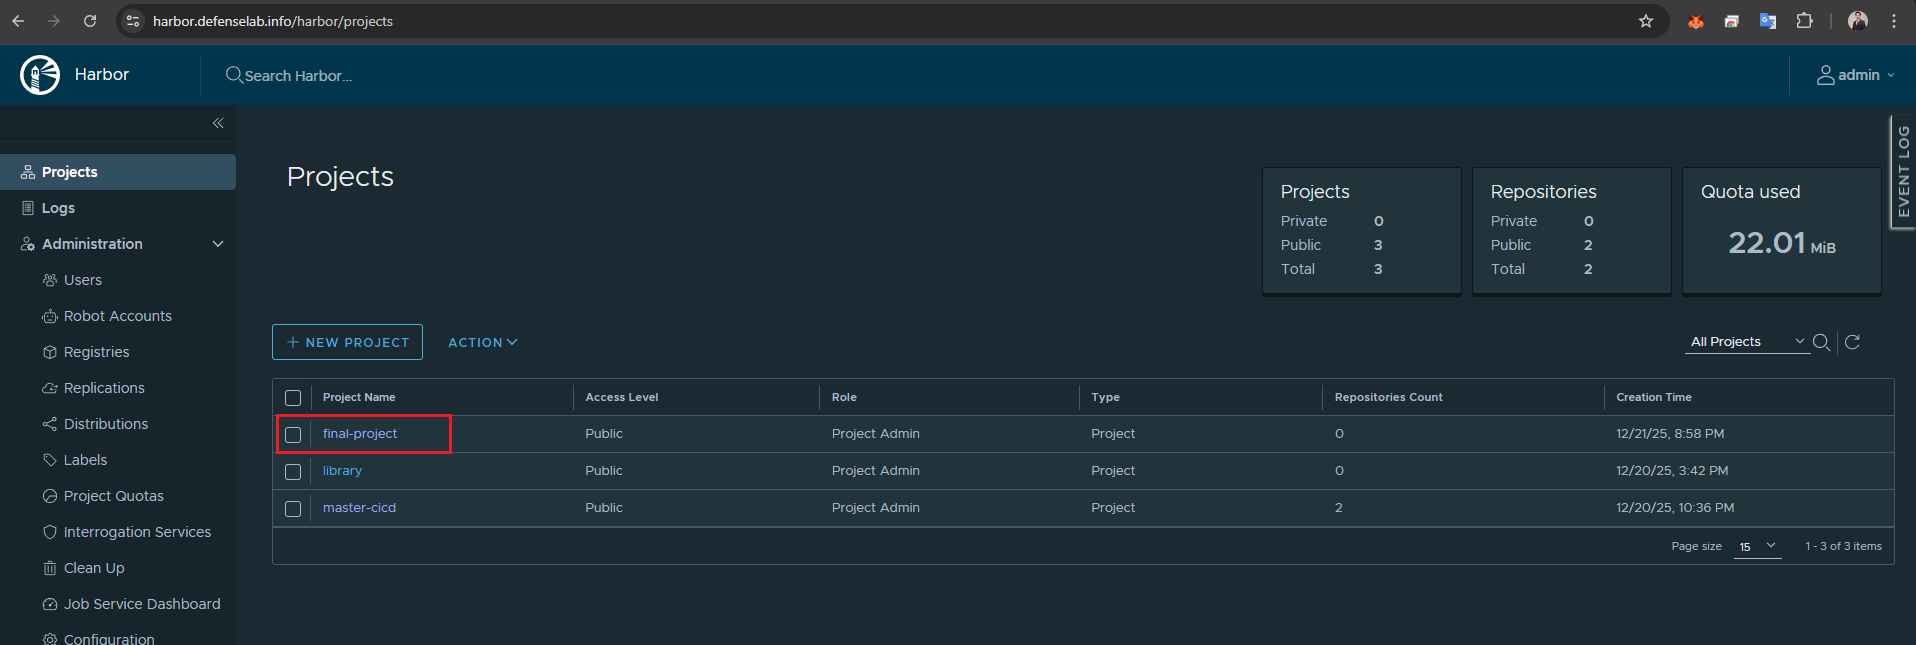
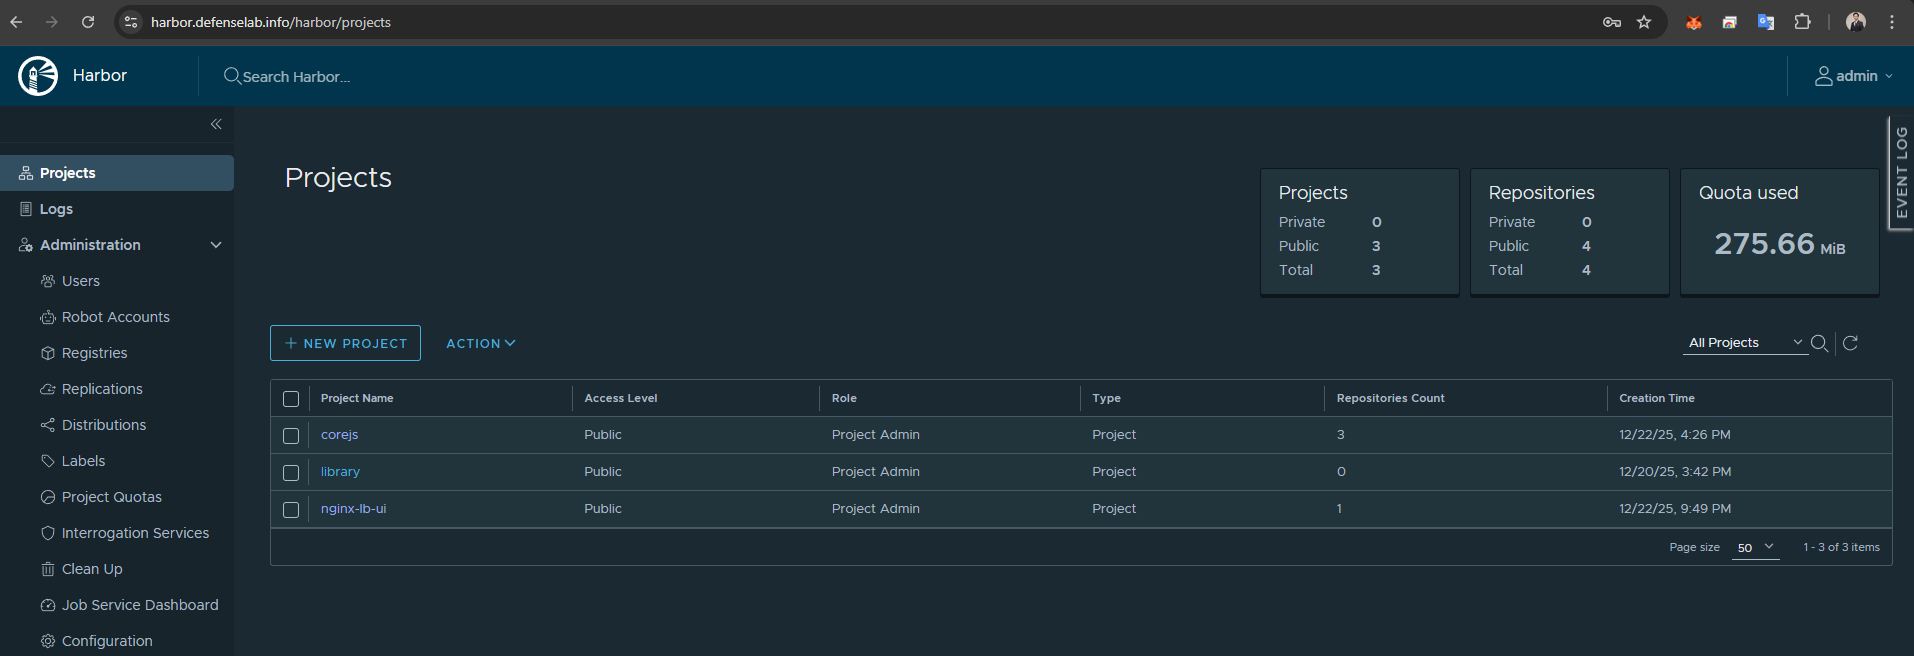
update final project guide

diff --git a/final-project/README.md b/final-project/README.md
@@ -252,13 +252,368 @@ Chạy lệnh `dc up -d --build --force-recreate`
 - Cài đặt Harbor xem tại [đây](https://github.com/tuongpx/master-cicd/tree/master/docker)
 - Cài đặt argoCD xem tại [đây](https://github.com/tuongpx/master-cicd/tree/master/argocd/hands-on-argocd-install)
 
-## Cấu hình Harbor Repository
+## Chuẩn bị môi trường
 
-Tạo project trên Harbor
+### 1. Tạo Harbor Project
+Tại giao diện của Harbor
+- Click chọn `NEW PROJECT`
+- Điền thông tin của project
+
+![Alt text](./images/harbor-project-create-1.png)
+
+Trong bài lab này, tôi tạo `corejs` project
 
 ![Alt text](./images/harbor-project-create.png)
 
-## Chuẩn bị Gitlab Repository
+### 2. Chuẩn bị gitlab repository
+https://gitlab.defenselab.info/master-cicd/corejs.git
+
+### 3. Chuẩn bị github repository
+Github chỉ dùng để lưu trữ helmchart của dự án.
+https://github.com/tuongpx/corejs-prod.git
+
+## Thiết lập Jenkins Pipeline
+
+- Chuẩn bị Jenkinsfile thực hiện tự động hóa toàn bộ quy trình CI/CD từ build, push images đến update manifest cho produt lên Github.
+
+```bash
+pipeline {
+  agent any
+
+  environment {
+    APP_NAME   = "corejs"
+    DOCKER_TAG = "0.1.${env.BUILD_NUMBER}"
+
+    GIT_REPO = "https://gitlab.defenselab.info/master-cicd/corejs.git"
+    GIT_CRED = "gitlab-token"
+
+    GITOPS_REPO = "https://gitlab.defenselab.info/master-cicd/app-manifest.git"
+
+    HARBOR_DOMAIN  = "harbor.defenselab.info"
+    HARBOR_PROJECT = "corejs"
+    HARBOR_CRED    = "jenkins-harbor"
+
+    FRONTEND_IMAGE = "harbor.defenselab.info/corejs/corejs-frontend"
+    BACKEND_IMAGE  = "harbor.defenselab.info/corejs/corejs-backend"
+    HARBOR_IMAGE   = "harbor.defenselab.info/corejs/corejs-backend"
+
+    HELM_CHART_DIR = "helmchart"
+
+    AWS_REGION  = "ap-southeast-1"
+    ECR_ACCOUNT = "130618649638"
+    ECR_REPO    = "tuongpx-backend"
+    ECR_IMAGE   = "${ECR_ACCOUNT}.dkr.ecr.${AWS_REGION}.amazonaws.com/${ECR_REPO}"
+    AWS_CRED    = "jenkins-aws"
+
+    GITHUB_PROD_REPO = "https://github.com/tuongpx/corejs-prod.git"
+    GITHUB_CRED     = "github-token"
+  }
+
+  stages {
+
+    stage('Checkout Source') {
+      steps {
+        git branch: 'master',
+            credentialsId: GIT_CRED,
+            url: GIT_REPO
+      }
+    }
+
+    stage('Pre-flight Check') {
+      steps {
+        sh '''
+          docker --version
+          helm version
+          yq --version
+        '''
+      }
+    }
+
+    stage('Build & Push Docker Images') {
+      parallel {
+        stage('Frontend Image') {
+          steps {
+            script {
+              docker.withRegistry("https://${HARBOR_DOMAIN}", HARBOR_CRED) {
+                sh """
+                  docker build -t ${FRONTEND_IMAGE}:${DOCKER_TAG} frontend
+                  docker push ${FRONTEND_IMAGE}:${DOCKER_TAG}
+                """
+              }
+            }
+          }
+        }
+
+        stage('Backend Image') {
+          steps {
+            script {
+              docker.withRegistry("https://${HARBOR_DOMAIN}", HARBOR_CRED) {
+                sh """
+                  docker build -t ${BACKEND_IMAGE}:${DOCKER_TAG} -f CoreAPI/Dockerfile .
+                  docker push ${BACKEND_IMAGE}:${DOCKER_TAG}
+                """
+              }
+            }
+          }
+        }
+      }
+    }
+
+    stage('Update Helm values.yaml') {
+      steps {
+        sh """
+          yq -i '
+            .frontend.image.repository = "${FRONTEND_IMAGE}" |
+            .frontend.image.tag = "${DOCKER_TAG}" |
+            .backend.image.repository = "${BACKEND_IMAGE}" |
+            .backend.image.tag = "${DOCKER_TAG}"
+          ' ${HELM_CHART_DIR}/values.yaml
+        """
+      }
+    }
+
+    stage('Package Helm Chart') {
+      steps {
+        sh """
+          helm lint ${HELM_CHART_DIR}
+          helm package ${HELM_CHART_DIR} --version ${DOCKER_TAG}
+        """
+      }
+    }
+
+    stage('Push Helm Chart to Harbor (OCI)') {
+      steps {
+        withCredentials([usernamePassword(
+          credentialsId: HARBOR_CRED,
+          usernameVariable: 'HARBOR_USER',
+          passwordVariable: 'HARBOR_PASS'
+        )]) {
+          sh '''
+            echo "$HARBOR_PASS" | helm registry login ${HARBOR_DOMAIN} \
+              --username "$HARBOR_USER" \
+              --password-stdin
+
+            helm push corejs-${DOCKER_TAG}.tgz \
+              oci://${HARBOR_DOMAIN}/${HARBOR_PROJECT}/
+          '''
+        }
+      }
+    }
+
+    stage('DEV: Update GitLab Manifest (Trigger ArgoCD)') {
+      steps {
+        withCredentials([usernamePassword(
+          credentialsId: GIT_CRED,
+          usernameVariable: 'GIT_USER',
+          passwordVariable: 'GIT_TOKEN'
+        )]) {
+          sh """
+            rm -rf app-manifest
+            git clone https://${GIT_USER}:${GIT_TOKEN}@${GITOPS_REPO.replace('https://','')} app-manifest
+            cd app-manifest
+
+            git config user.email "jenkins@defenselab.info"
+            git config user.name  "Jenkins Bot"
+
+            sed -i 's|tag:.*|tag: ${DOCKER_TAG}|' helm/values-local.yaml
+            git add helm/values-local.yaml
+            git commit -m "dev: update image tag ${DOCKER_TAG}" || true
+            git push origin main
+          """
+        }
+      }
+    }
+
+    stage("QUALITY GATE: QC Approval") {
+      steps {
+        input message: "QC APPROVAL REQUIRED for version ${DOCKER_TAG}",
+              ok: "Approve Release"
+      }
+    }
+
+    stage("PROMOTE: Push Image to AWS ECR") {
+      steps {
+        withCredentials([[ $class: 'AmazonWebServicesCredentialsBinding',
+                           credentialsId: AWS_CRED ]]) {
+          sh '''
+            aws ecr get-login-password --region ${AWS_REGION} \
+              | docker login --username AWS --password-stdin \
+                ${ECR_ACCOUNT}.dkr.ecr.${AWS_REGION}.amazonaws.com
+
+            docker tag ${HARBOR_IMAGE}:${DOCKER_TAG} ${ECR_IMAGE}:${DOCKER_TAG}
+            docker push ${ECR_IMAGE}:${DOCKER_TAG}
+          '''
+        }
+      }
+    }
+
+    stage("PROMOTE: Update GitHub Prod Config (Trigger ArgoCD Cloud)") {
+      steps {
+        withCredentials([
+          usernamePassword(
+            credentialsId: GITHUB_CRED,
+            usernameVariable: 'GH_USER',
+            passwordVariable: 'GH_TOKEN'
+          ),
+          [$class: 'AmazonWebServicesCredentialsBinding',
+           credentialsId: AWS_CRED]
+        ]) {
+          sh """
+            rm -rf corejs-prod
+            git clone https://${GH_USER}:${GH_TOKEN}@github.com/tuongpx/corejs-prod.git
+            cd corejs-prod
+
+            git config user.email "jenkins@defenselab.info"
+            git config user.name  "Jenkins Bot"
+
+            AWS_ACCOUNT_ID=\$(aws sts get-caller-identity --query Account --output text)
+            ECR_URL="\${AWS_ACCOUNT_ID}.dkr.ecr.${AWS_REGION}.amazonaws.com/${ECR_REPO}"
+
+            sed -i "s|repository: .*|repository: \${ECR_URL}|" helm/values-prod.yaml
+            sed -i "s|tag:.*|tag: ${DOCKER_TAG}|" helm/values-prod.yaml
+
+            git add helm/values-prod.yaml
+            git commit -m "release: promote ${DOCKER_TAG}"
+            git push origin master
+          """
+        }
+      }
+    }
+  }
+
+  post {
+    success {
+      echo "✅ RELEASE SUCCESS – Version ${DOCKER_TAG}"
+    }
+    failure {
+      echo "❌ PIPELINE FAILED – Please check console log"
+    }
+    always {
+      cleanWs()
+    }
+  }
+}
+```
+## Kiểm tra kết quả chạy pipeline
+
+Thực hiện build pipeline và theo dõi quá trình thực thi từng stage
+
+![Alt text](./images/pipeline.png)
+
+## Kiểm tra Harbor
+
+Image đã được push lên Harbor với tag version tương ứng build number trong Jenkins.
+
+![Alt text](./images/harbor-helm.png)
+
+## Kiểm tra ECR
+
+Image với tag version tương ứng với build number trong Jenkins đã được push lên.
+
+![Alt text](./images/ecr.png)
+
+## Kiểm tra Github manifest
+
+Kiểm tra file `values-prod.yaml` trên Github đã được update với version tương ứng.
+
+![Alt text](./images/github-manifest.png)
+
+## Cấu hình ArgoCD Onpremise
+
+1. Kết nối Gitlab Repository
+- Truy cập ArgoCD UI
+- Chọn `Setting` --> `Repositories`
+- Add repository : `corejs`
+![Alt text](./images/argocd-repo.png)
+
+2. Tạo Application
+
+![Alt text](./images/argocd-app.png)
+
+## Cấu hình ArgoCD AWS
+
+1. Kết nối Gitlab Repository
+- Truy cập ArgoCD AWS UI
+- Chọn `Setting` --> `Repositories`
+- Add repository : `corejs-prod`
+- Cấu hình authentication với GitHub Personal Access Token
+
+![Alt text](./images/argocd-aws-repo.png)
+
+2. Tạo Application
+
+![Alt text](./images/argocd-aws-app.png)
+
+✅ Kết quả: Ứng dụng đã được deploy tự động lên cả hai môi trường thông qua GitOps workflow.
+
+# 4. Public ứng dụng ra Internet
+
+## Cấu hình AWS ELB
+
+![Alt text](./images/kubectl-get-ingress.png)
+
+🔑 Lưu lại ELB address để cấu hình DNS trên Cloudflare
+
+## Cấu hình DNS Cloudflare
+
+Tạo bản ghi DNS với các thông số sau:
+- Type: `CNAME`
+- Name: `corejs`
+- Target: `ELB address`
+
+![Alt text](./images/CF-CNAME.png)
+
+Kiểm tra truy cập
+
+![Alt text](./images/corejs-ui.png)
+
+⚠ Lưu ý: Chỉ public một site (AWS hoặc Local) tại một thời điểm để thực hiện kịch bản DR testing.
+
+# 4. Kịch bản Disaster Recovery
+
+## 1. Giả lập trường hợp hệ thống prod trên AWS bị gián đoạn
+
+Các bước thực hiện
+- Truy cập vào ArgoCD AWS
+- Chọn Application `corejs-prod`
+- Scale replica về 0
+
+Kết quả trả về khi truy cập `corejs.defenselab.info`
+
+![Alt text](./images/corejs-503.png)
+
+## 2. Kích hoạt DR Site (Cloudflare Tunnel Failover)
+
+Các bước thực hiện:
+- Truy cập vào `Zero Trust Dashboard` --> `Networks` --> `Connector`
+- Chọn Tunnel đang hoạt động `devops-lab` --> `Edit` --> `Published application routes` --> `Added a published application route`
+- Điền các thông tin cho route như sau:
+  - Subdomain: `corejs`
+  - Domain: `defenselab.info`
+  - Service: `HTTP`
+  - URL: `192.168.80.30:30080` (IP worker node và NodePort của Ingress Controller) 
+- Nhấn `Save`
+
+Truy cập lại `corejs.defenselab.info` để kiểm tra
+![Alt text](./images/corejs-ui.png)
+
+# 5. Xác nhận ứng dụng đã truy cập được bình thường
+✅ Kết quả:
+- Website corejs.defenselab.info hoạt động trở lại
+- Traffic được phục vụ từ K8S Local (DR Site)
+- RTO (Recovery Time Objective) đạt được trong vòng vài phút
+- Không mất dữ liệu (RPO = 0)
+
+
+
+
+
+
+
+
+
+
+
 
 
 
